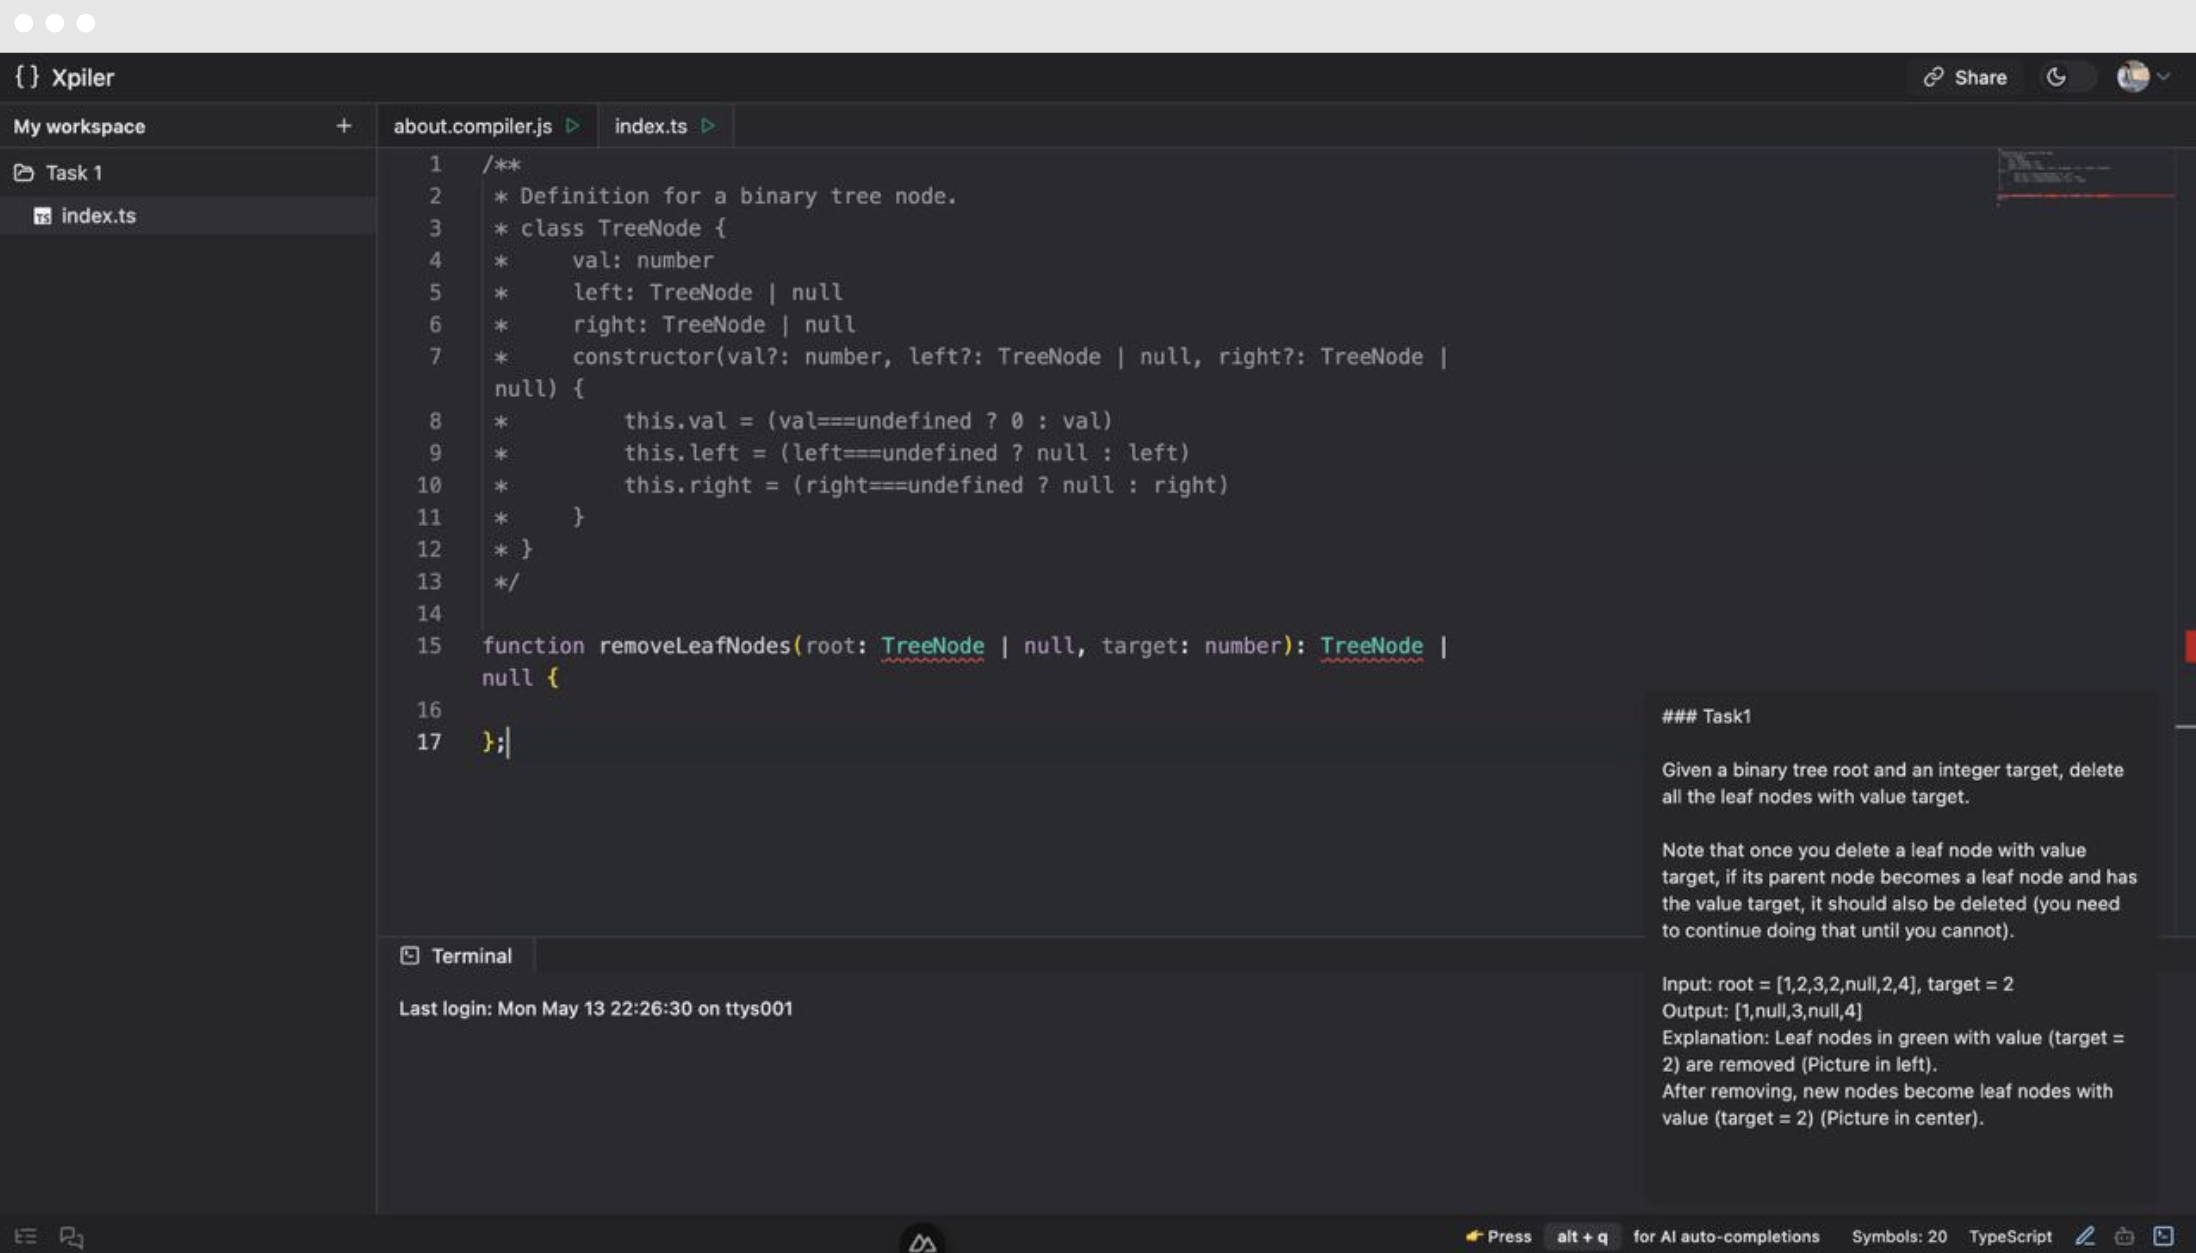
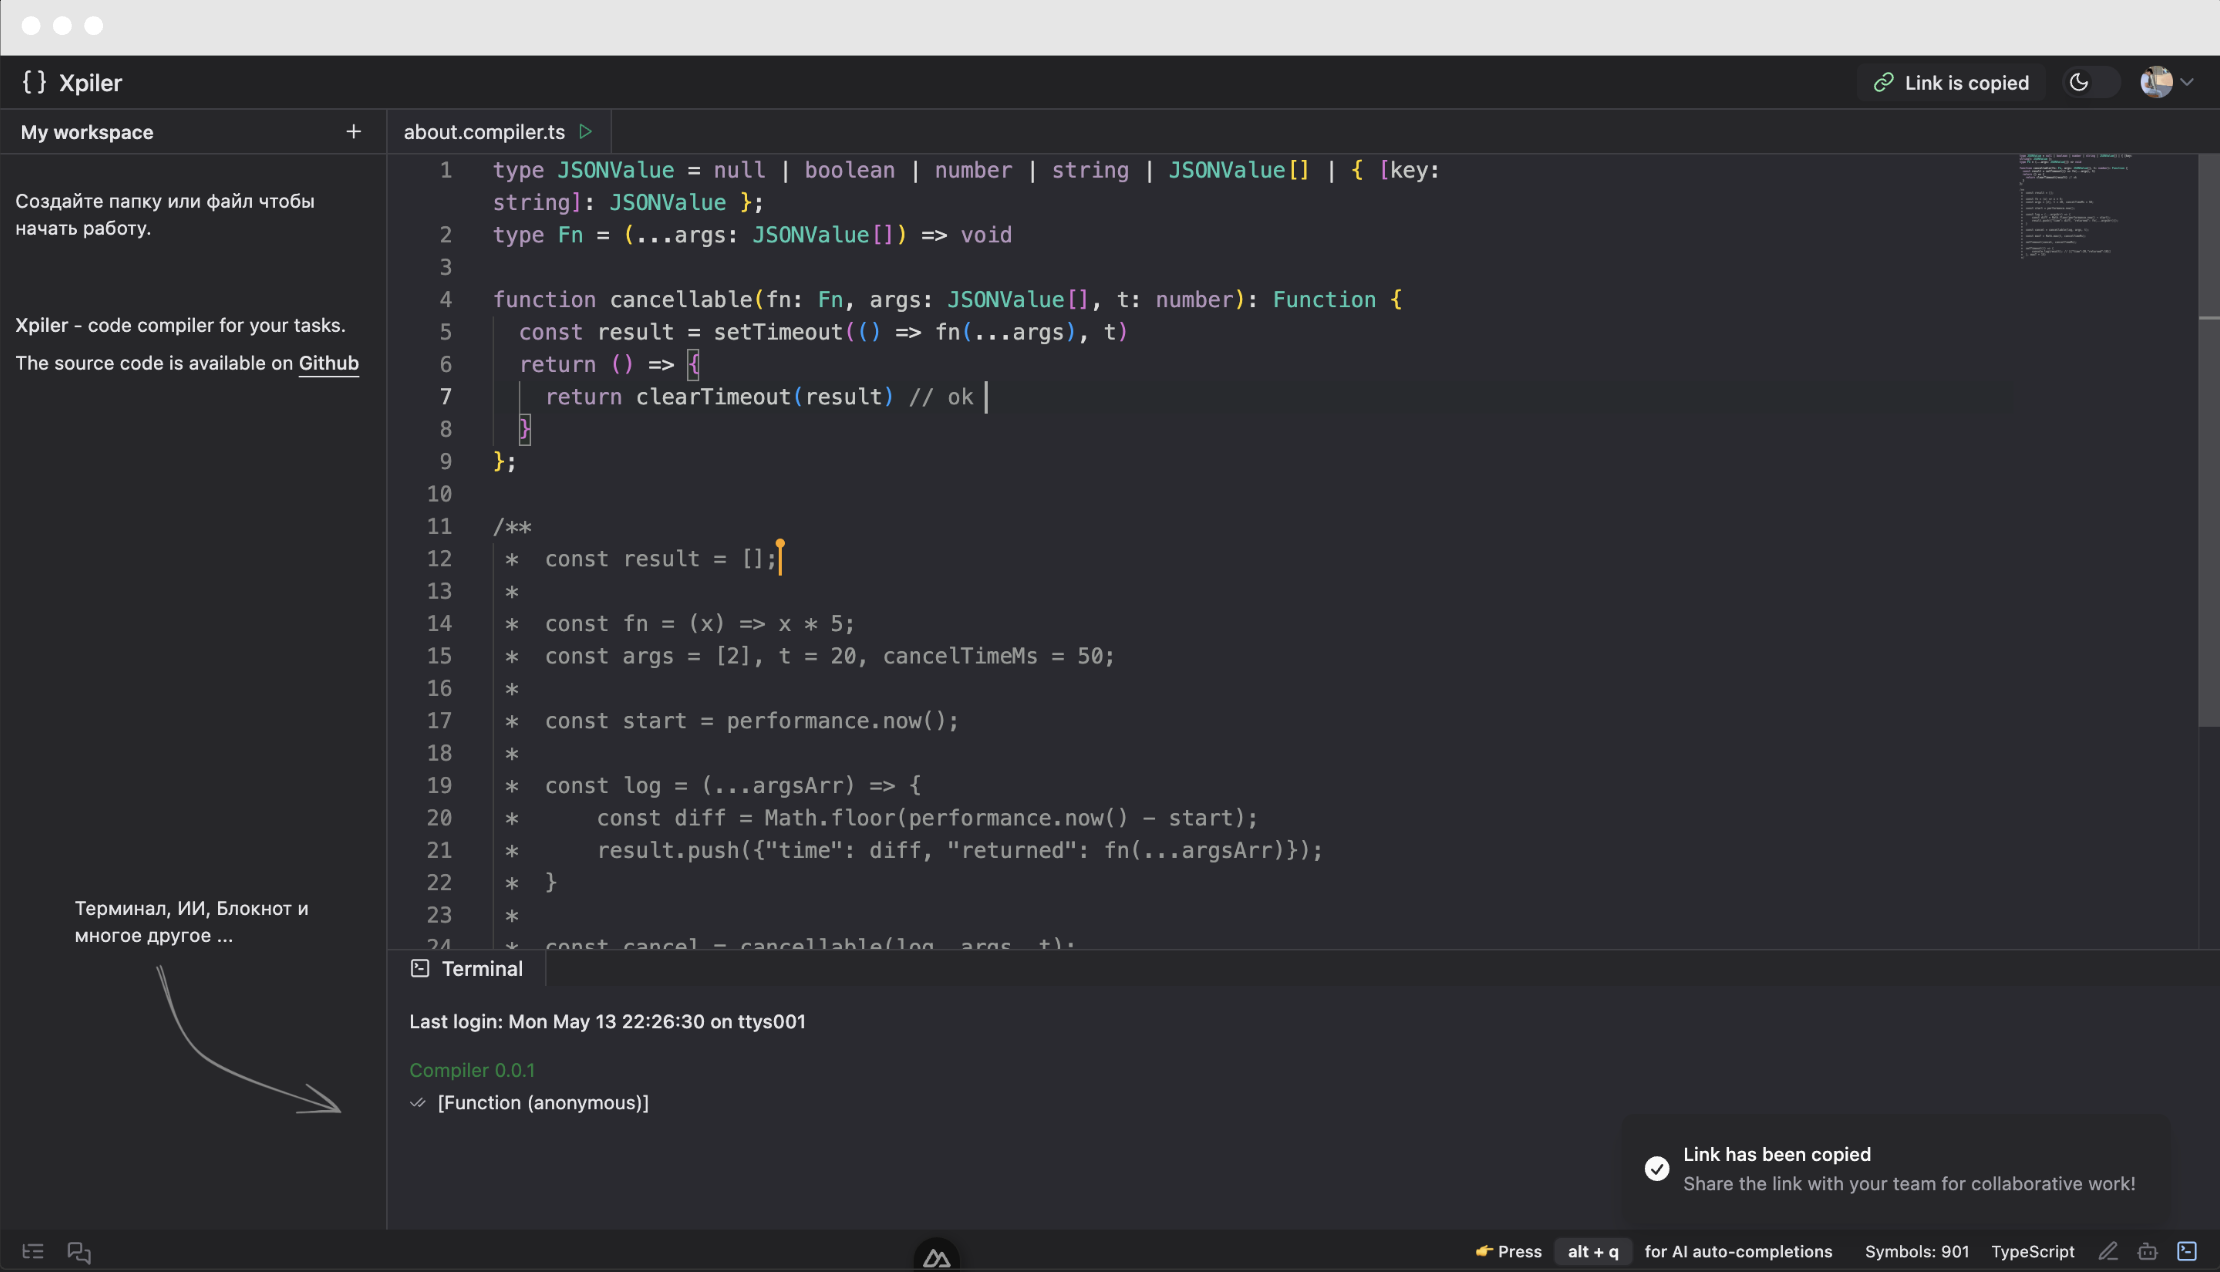
fix: header styles

diff --git a/client/components/layout/Header.vue b/client/components/layout/Header.vue
@@ -13,7 +13,7 @@ import Switch from "~/components/ui/switch/Switch.vue";
 import { Skeleton } from "@/components/ui/skeleton";
 
 const { store, system } = useColorMode();
-const {isShare, toggleShare} = useShare()
+const { isShare, toggleShare } = useShare();
 
 const modelTheme = ref(false);
 const color = computed(() => {
@@ -61,10 +61,10 @@ onMounted(() => {
       >
         <component
           :is="Link"
-          class="dark:text-zinc-200 text-zinc-500" :class="isShare && 'dark:text-green-300 text-green-500'"
+          :class="isShare ? 'dark:text-green-300 text-green-500' : 'dark:text-zinc-200 text-zinc-500'"
           :size="14"
         />
-        <span class="text-sm">{{ isShare ? 'Link is copied' : 'Share' }}</span>
+        <span class="text-sm">{{ isShare ? "Link is copied" : "Share" }}</span>
       </UiButton>
       <Switch
         v-model:checked="modelTheme"
